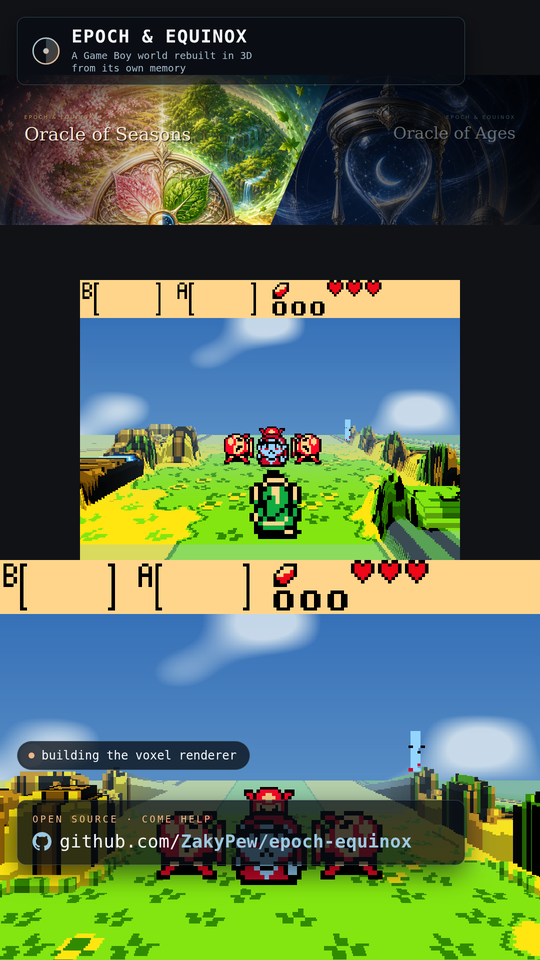
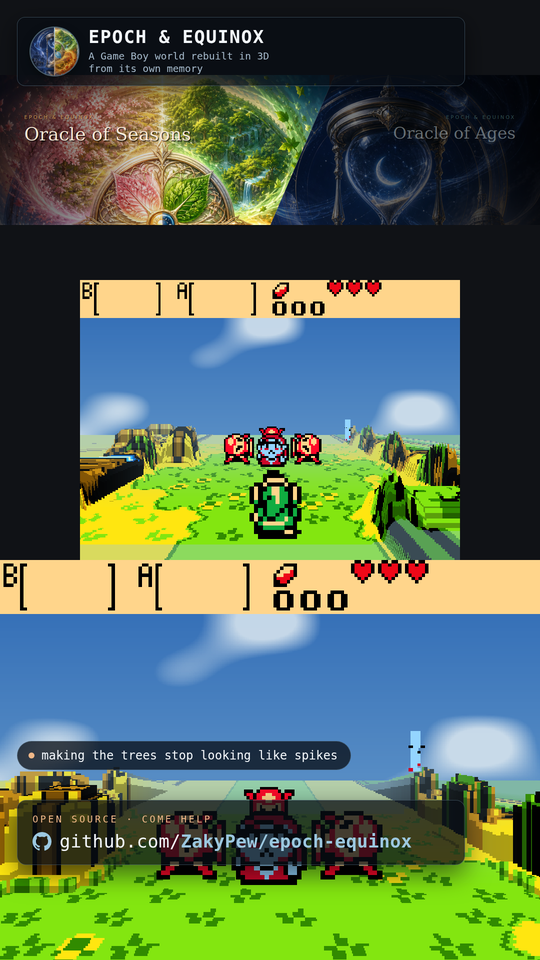
Stream overlays: real cover art in the emblem, and a status line that works
The mark is now the two covers as one split disc -- Ages on the left,
Seasons on the right, seamed with the accent gradient. cover-ages.png
and cover-seasons.png ship next to the HTML; without them the emblem
falls back to a plain gradient.

The live status line never worked. OBS loads a local overlay over
file://, and browsers block fetch() and XHR against file:// URLs, so the
poll failed silently and the text sat at its default forever. Loading a
script from the same folder IS allowed, so the status is now a one-line
now.js -- NOW("...") -- re-injected with a cache-buster. Verified under
file:// in Chromium: the text updates.

Claude-Session: https://claude.ai/code/session_01XEpJisF9zsRiy31aAWP8eC

Changed region(s): [[0.0593, 0.0, 0.5037, 0.0938], [0.0889, 0.75, 0.6519, 0.8125]]

diff --git a/stream/overlay-vertical.html b/stream/overlay-vertical.html
@@ -43,7 +43,32 @@
     backdrop-filter:blur(6px);
     box-shadow:0 16px 44px rgba(0,0,0,.5);
   }
-  .glyph { width:62px; height:62px; flex:0 0 auto; }
+  /* The emblem is the two covers as one split disc -- Ages on the left,
+     Seasons on the right. Drop cover-ages.png and cover-seasons.png next
+     to this file; without them the gradient underneath shows through and
+     nothing breaks. */
+  .emblem {
+    position:relative; width:96px; height:96px; flex:0 0 auto;
+    border-radius:50%; overflow:hidden;
+    background:linear-gradient(150deg,#9CC8E0,#F0B888);
+    box-shadow:0 0 0 2px rgba(156,200,224,.45), 0 8px 20px rgba(0,0,0,.45);
+  }
+  .emblem i {
+    position:absolute; inset:0; display:block;
+    background-size:cover; background-position:center;
+  }
+  .emblem .a { clip-path:inset(0 50% 0 0); background-image:url("cover-ages.png"); }
+  .emblem .b { clip-path:inset(0 0 0 50%); background-image:url("cover-seasons.png"); }
+  .emblem::after {
+    content:""; position:absolute; inset:0;
+    background:linear-gradient(180deg, rgba(255,255,255,.10), rgba(0,0,0,.28));
+  }
+  .emblem .seam {
+    position:absolute; left:50%; top:0; bottom:0; width:2px;
+    transform:translateX(-1px);
+    background:linear-gradient(180deg,#9CC8E0,#F0B888); opacity:.85;
+    clip-path:none;
+  }
   .top-text { display:flex; flex-direction:column; gap:8px; min-width:0; }
   .name {
     font-size:36px; letter-spacing:.05em; color:var(--ink);
@@ -105,18 +130,9 @@
 <body>
 
   <div class="top">
-    <svg class="glyph" viewBox="0 0 48 48" aria-hidden="true">
-      <defs>
-        <linearGradient id="g" x1="0" y1="0" x2="1" y2="1">
-          <stop offset="0" stop-color="#9CC8E0"/>
-          <stop offset="1" stop-color="#F0B888"/>
-        </linearGradient>
-      </defs>
-      <circle cx="24" cy="24" r="20" fill="none" stroke="url(#g)" stroke-width="2.2"/>
-      <path d="M24 4 L24 44" stroke="url(#g)" stroke-width="2.2"/>
-      <path d="M24 4 A20 20 0 0 1 24 44 Z" fill="url(#g)" opacity=".28"/>
-      <circle cx="24" cy="24" r="4.4" fill="url(#g)"/>
-    </svg>
+    <div class="emblem" aria-hidden="true">
+      <i class="a"></i><i class="b"></i><span class="seam"></span>
+    </div>
     <div class="top-text">
       <div class="name">EPOCH &amp; EQUINOX</div>
       <div class="tag">A Game Boy world rebuilt in 3D<br>from its own memory</div>
@@ -137,16 +153,25 @@
   </div>
 
 <script>
-  /* Same live text file as the horizontal overlay, so one edit updates
-     whichever layout is on screen. */
-  async function poll() {
-    try {
-      const r = await fetch('now.txt?t=' + Date.now(), {cache:'no-store'});
-      if (r.ok) {
-        const t = (await r.text()).trim();
-        if (t) document.getElementById('now').textContent = t;
-      }
-    } catch (e) {}
+  /* Live status without fetch().
+   *
+   * OBS loads a local overlay over file://, and Chromium blocks fetch()
+   * and XHR against file:// URLs -- so the obvious implementation fails
+   * silently and the line never updates. Loading a <script> from the same
+   * folder IS allowed, so the status lives in now.js as a one-line call:
+   *
+   *     NOW("making the trees stop looking like spikes");
+   *
+   * Re-injected every few seconds with a cache-buster. If now.js is
+   * missing the default text just stays put. */
+  window.NOW = function (t) {
+    if (t) document.getElementById('now').textContent = t;
+  };
+  function poll() {
+    var s = document.createElement('script');
+    s.src = 'now.js?t=' + Date.now();
+    s.onload = s.onerror = function () { s.remove(); };
+    document.head.appendChild(s);
   }
   poll();
   setInterval(poll, 4000);

diff --git a/stream/overlay.html b/stream/overlay.html
@@ -117,17 +117,25 @@
   </div>
 
 <script>
-  /* Edit stream/now.txt while you stream and this picks it up within a
-     few seconds -- no need to touch OBS or reload the source. If the file
-     is missing the line simply keeps whatever it last showed. */
-  async function poll() {
-    try {
-      const r = await fetch('now.txt?t=' + Date.now(), {cache:'no-store'});
-      if (r.ok) {
-        const t = (await r.text()).trim();
-        if (t) document.getElementById('now').textContent = t;
-      }
-    } catch (e) { /* file:// without the sibling file — ignore */ }
+  /* Live status without fetch().
+   *
+   * OBS loads a local overlay over file://, and Chromium blocks fetch()
+   * and XHR against file:// URLs -- so the obvious implementation fails
+   * silently and the line never updates. Loading a <script> from the same
+   * folder IS allowed, so the status lives in now.js as a one-line call:
+   *
+   *     NOW("making the trees stop looking like spikes");
+   *
+   * Re-injected every few seconds with a cache-buster. If now.js is
+   * missing the default text just stays put. */
+  window.NOW = function (t) {
+    if (t) document.getElementById('now').textContent = t;
+  };
+  function poll() {
+    var s = document.createElement('script');
+    s.src = 'now.js?t=' + Date.now();
+    s.onload = s.onerror = function () { s.remove(); };
+    document.head.appendChild(s);
   }
   poll();
   setInterval(poll, 4000);

diff --git a/stream/now.js b/stream/now.js
@@ -1,0 +1,1 @@
+NOW("making the trees stop looking like spikes");

diff --git a/stream/README.md b/stream/README.md
@@ -32,15 +32,27 @@ you're capturing.
 
 ## Change the "now building" line mid-stream
 
-Edit `stream/now.txt`, save, and the overlay picks it up within a few
-seconds. One line of plain text:
+Edit `stream/now.js`, save, and the overlay picks it up within a few
+seconds. One line:
 
-```
-chasing down the tree shapes
+```js
+NOW("chasing down the tree shapes");
 ```
 
-If the file is missing the overlay just keeps showing the last thing it
-read, so nothing breaks.
+If the file is missing the overlay keeps its default text, so nothing
+breaks.
+
+(It is a `.js` file rather than plain text for an annoying reason: OBS
+loads a local overlay over `file://`, and browsers block `fetch()` against
+`file://` URLs. Loading a script from the same folder is allowed, so this
+is the version that actually works.)
+
+## Cover art in the emblem
+
+The mark in the corner is your two covers as one split disc. Put
+`cover-ages.png` and `cover-seasons.png` next to the HTML — square crops,
+a few hundred pixels is plenty. Without them the emblem falls back to a
+plain gradient and nothing breaks.
 
 ## Notes
 
